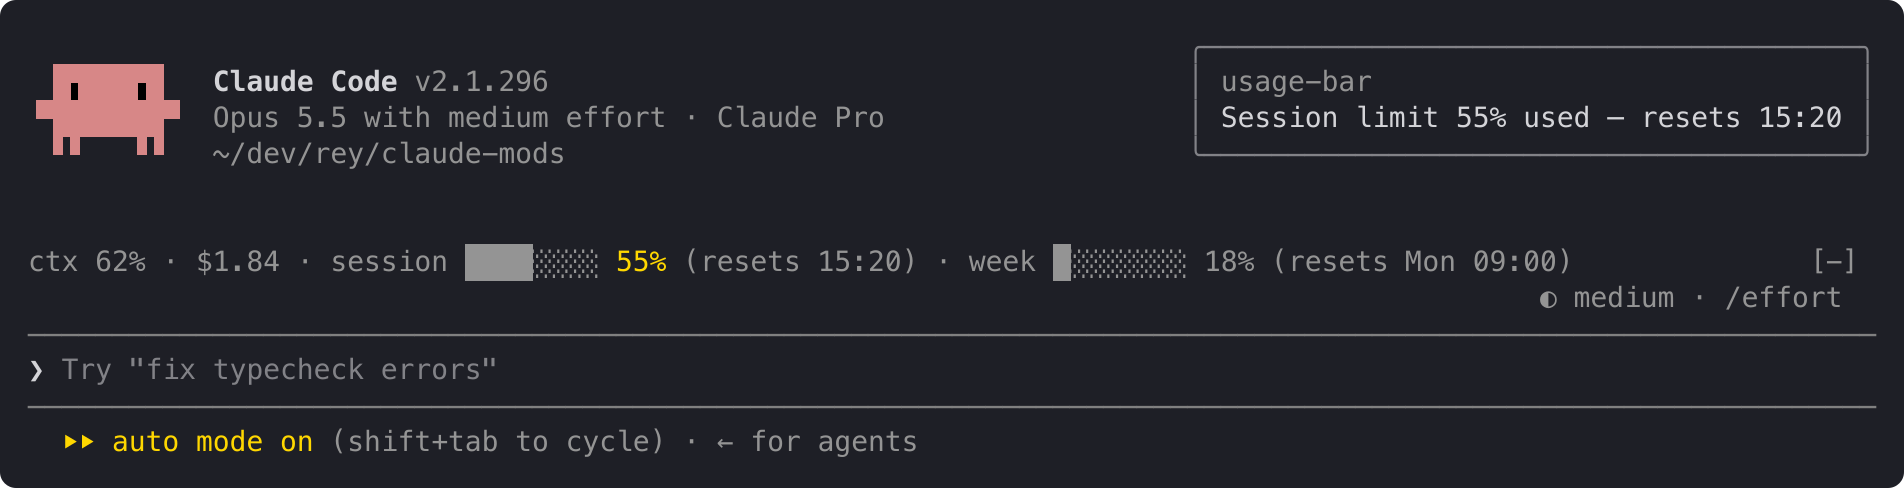
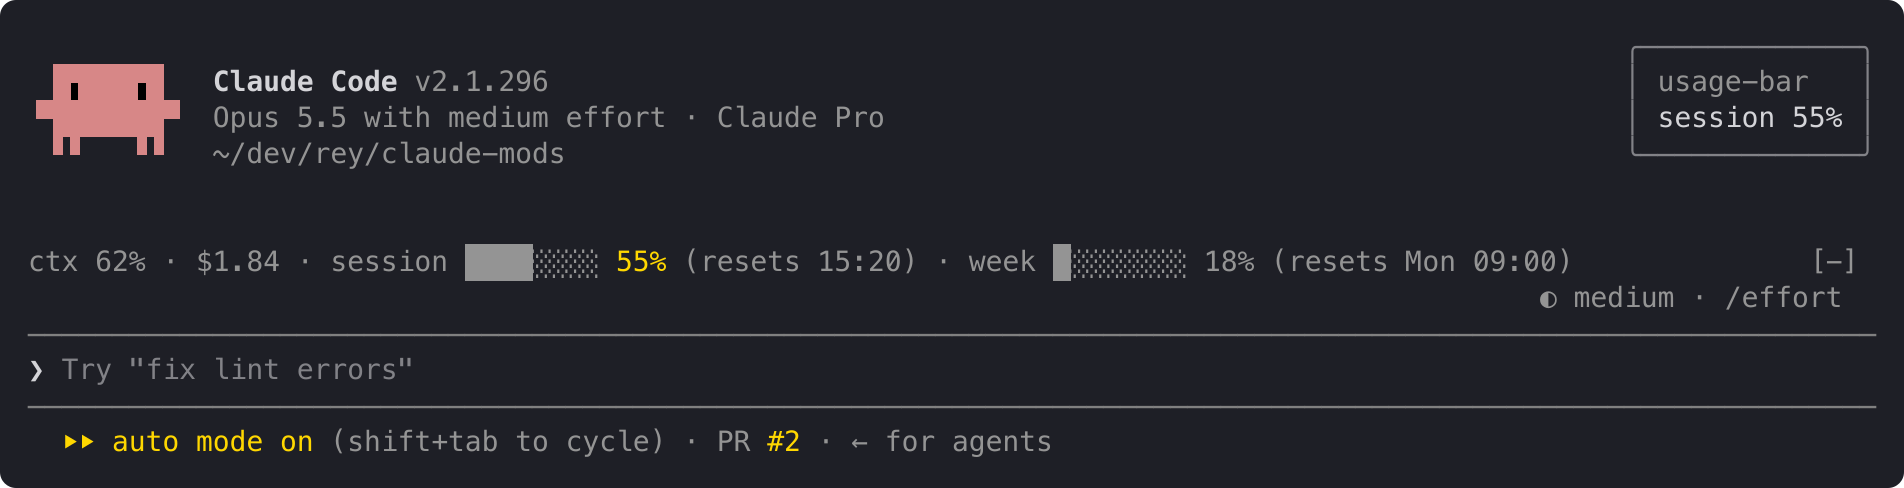
feat(usage-bar): one short toast per reading
The desktop app drops a plugin's second toast while one shows, and the
reset time is already on the line. Toast before saving, so a failed
save repeats a toast instead of losing it.

diff --git a/plugins/usage-bar/hooks/register.tsx b/plugins/usage-bar/hooks/register.tsx
@@ -8,10 +8,12 @@ const reading = atom({ plugin: 'usage-bar', key: 'reading' } as const, null)
 const THRESHOLDS = [50, 80, 95]
 const DAYS = ['Sun', 'Mon', 'Tue', 'Wed', 'Thu', 'Fri', 'Sat']
 
+type Window = { label: string; letter: string; showsDay: boolean }
+
 // The two windows the line shows; any other kind (a gateway's spend_limit) is ignored.
-const WINDOWS: Record<string, { label: string; letter: string; name: string; showsDay: boolean }> = {
-  five_hour: { label: 'session', letter: 's', name: 'Session', showsDay: false },
-  seven_day: { label: 'week', letter: 'w', name: 'Weekly', showsDay: true },
+const WINDOWS: Record<string, Window> = {
+  five_hour: { label: 'session', letter: 's', showsDay: false },
+  seven_day: { label: 'week', letter: 'w', showsDay: true },
 }
 
 // The line's layouts, widest first, each used from its minimum bodyColumns (see docs/usage-bar.md).
@@ -78,25 +80,22 @@ function lineSegments(r: Reading, columns: number): Segment[] {
   return segments.filter(segment => segment.text !== '')
 }
 
-async function toastCrossings($: EngineInterface, limit: LimitReading): Promise<void> {
-  const window = WINDOWS[limit.kind]
-  if (!window) return
-
-  const key = `toasted:${limit.kind}`
+// The record to save when the window crossed a threshold not yet toasted this period, else undefined.
+// It marks every crossed threshold, so a lower one never toasts later in this period.
+async function freshRecord($: EngineInterface, limit: LimitReading): Promise<Toasted | undefined> {
   const period = limit.resetsAt ?? ''
-  const stored = (await $.store.get(key)) as Toasted | undefined
+  const stored = (await $.store.get(`toasted:${limit.kind}`)) as Toasted | undefined
   const shown = stored?.resetsAt === period ? stored.thresholds : []
 
   const crossed = THRESHOLDS.filter(t => limit.percentUsed >= t)
-  const fresh = crossed.filter(t => !shown.includes(t))
-  if (fresh.length === 0) return
+  if (crossed.every(t => shown.includes(t))) return undefined
 
-  // Mark every crossed threshold before toasting, so a lower one never toasts later in this period.
-  await $.store.set(key, { resetsAt: period, thresholds: crossed } satisfies Toasted)
-
-  const resets = limit.resetsAt ? ` — resets ${resetTime(limit.resetsAt, window.showsDay)}` : ''
-  $.ui.toast(`${window.name} limit ${Math.floor(limit.percentUsed)}% used${resets}`)
+  return { resetsAt: period, thresholds: crossed }
 }
+
+// Just the windows and numbers, named as in the line's full layout: `week 97%`, or `session 62% · week 97%`.
+const toastText = (limits: { limit: LimitReading; window: Window }[]): string =>
+  limits.map(({ limit, window }) => `${window.label} ${Math.floor(limit.percentUsed)}%`).join(' · ')
 
 export const register: Register = on => {
   on('session.measure', async ($, e, next) => {
@@ -107,8 +106,17 @@ export const register: Register = on => {
     }
     await update($, reading, () => r)
 
+    // One toast per reading: the desktop app shows one toast per plugin at a time and drops the next.
+    // Toast before saving the records: a failed save repeats a toast later rather than losing it.
+    const crossed: { limit: LimitReading; window: Window; record: Toasted }[] = []
     for (const limit of r.rateLimits) {
-      await toastCrossings($, limit)
+      const window = WINDOWS[limit.kind]
+      const record = window && (await freshRecord($, limit))
+      if (window && record) crossed.push({ limit, window, record })
+    }
+    if (crossed.length > 0) $.ui.toast(toastText(crossed))
+    for (const { limit, record } of crossed) {
+      await $.store.set(`toasted:${limit.kind}`, record)
     }
 
     return next(e)

diff --git a/plugins/usage-bar/tests/usage-bar.test.ts b/plugins/usage-bar/tests/usage-bar.test.ts
@@ -204,8 +204,8 @@ describe('toasts', () => {
       await measure($, [week(percent)])
     }
 
-    expect(toasts.map(t => t.match(/limit (\d+)%/)?.[1])).toEqual(['50', '80', '95'])
-    expect(toasts[0]).toMatch(/^Weekly limit 50% used — resets [A-Z][a-z]{2} \d\d:\d\d$/)
+    expect(toasts.map(t => t.match(/(\d+)%/)?.[1])).toEqual(['50', '80', '95'])
+    expect(toasts[0]).toBe('week 50%')
   })
 
   test('toastsOnlyTheHighest_whenOneReadingCrossesSeveral', async ($, on) => {
@@ -217,7 +217,7 @@ describe('toasts', () => {
     await measure($, [week(97)])
 
     expect(toasts).toHaveLength(1)
-    expect(toasts[0]).toMatch(/^Weekly limit 96% used/)
+    expect(toasts[0]).toBe('week 96%')
   })
 
   // An API-key user, off a subscription, gets readings with no rate limits.
@@ -260,7 +260,36 @@ describe('toasts', () => {
     await measure($, [week(50, NEXT_PERIOD)])
     await measure($, [week(80, NEXT_PERIOD)])
 
-    expect(toasts.map(t => t.match(/limit (\d+)%/)?.[1])).toEqual(['96', '50', '80'])
+    expect(toasts.map(t => t.match(/(\d+)%/)?.[1])).toEqual(['96', '50', '80'])
+  })
+
+  // The desktop app shows one toast per plugin at a time and drops the next, so a second toast from one reading would be lost.
+  test('showsOneToastNamingBoth_whenOneReadingCrossesBothWindows', async ($, on) => {
+    mock.store(on)
+    const toasts = recordToasts(on)
+
+    await measure($, [session(62), week(97)])
+
+    expect(toasts).toHaveLength(1)
+    expect(toasts[0]).toBe('session 62% · week 97%')
+  })
+
+  // A failed save may repeat a toast on the next reading, but never loses one.
+  test('stillToasts_whenSavingAWindowRecordFails', async ($, on) => {
+    // A store in memory whose weekly write fails; mock.store has no way to fail a write.
+    const store = new Map<string, unknown>()
+    on('store.get', ($, e) => ({ value: store.get(e.key) }))
+    on('store.set', ($, e) => {
+      if (e.key === 'toasted:seven_day') throw new Error('disk full')
+      store.set(e.key, e.value)
+
+      return { value: undefined }
+    })
+    const toasts = recordToasts(on)
+
+    await measure($, [session(62), week(97)]).catch(() => undefined)
+
+    expect(toasts).toEqual(['session 62% · week 97%'])
   })
 
   test('tracksSessionAndWeeklyWindowsSeparately', async ($, on) => {
@@ -268,7 +297,9 @@ describe('toasts', () => {
     const toasts = recordToasts(on)
 
     await measure($, [session(50), week(50)])
+    await measure($, [session(80), week(55)])
 
-    expect(toasts.map(t => t.split(' ')[0])).toEqual(['Session', 'Weekly'])
+    expect(toasts).toHaveLength(2)
+    expect(toasts[1]).toBe('session 80%')
   })
 })

diff --git a/docs/usage-bar.md b/docs/usage-bar.md
@@ -26,10 +26,11 @@ One line above the prompt with the session's context fill and cost, plus the pla
      | 56–75 | `ctx 62% · $1.84 · s 41% ↻ 15:20 · w 18% ↻ Mon 09:00` | 56 |
      | < 56 | `ctx 62% · $1.84 · s 41% · w 18%` | 36 |
 
-2. **Toasts.** When the session or weekly window first crosses 50%, 80% or 95%, show one toast, for example `Weekly limit 80% used — resets Mon 09:00`.
+2. **Toasts.** When the session or weekly window first crosses 50%, 80% or 95%, show one toast with just the window and number, named as in the line's full layout: `week 80%`. The reset time is on the line, except under 56 columns, where nothing shows it.
    - A window has crossed a threshold when `percentUsed` is greater than or equal to it, so exactly 50 counts.
    - If one reading crosses several thresholds (40% → 96%), show one toast and mark them all as shown.
-   - The toast names the current percent, rounded down like the line: `Weekly limit 96% used`, not `95%`.
+   - If one reading crosses thresholds in both windows, show one toast naming both: `session 62% · week 97%`. It fits one line of the desktop app's toast. The desktop app shows one toast per plugin at a time and drops the next.
+   - The toast names the current percent, rounded down like the line: `week 96%`, not `week 95%`.
    - Each threshold toasts once per window period. After a reset, the window's new `resetsAt` starts a new period.
    - A reload or a new session must not repeat a toast already shown for the same period.
 
@@ -72,7 +73,7 @@ Use `claude plugin test`. Cover at least:
 
 1. Before the first reading, the line shows `usage: no data yet`; after one with empty `rateLimits`, only `ctx` and `$`.
 2. Crossing 50%, 80% and 95% each toasts once, and exactly 50% counts as crossed.
-3. A jump from 40% to 96% shows one toast, `Weekly limit 96% used`, and no later toast for 50% or 80%.
+3. A jump from 40% to 96% shows one toast, `week 96%`, and no later toast for 50% or 80%.
 4. Staying above a threshold, reloading, or starting a session in another project does not repeat the toast.
 5. A new `resetsAt` re-arms all thresholds.
 6. The line rounds `ctx` and window percents down, and shows `$` with two decimals, or `$–` for a reading with no cost.
@@ -80,3 +81,4 @@ Use `claude plugin test`. Cover at least:
 8. Empty `rateLimits` never toast.
 9. Each width picks its layout at the 100, 76 and 56 column breakpoints, and the widest line fits its width.
 10. Bars fill rounded down and stay dimmed; the percent turns `warning` at 50% and `error` at 95%.
+11. A reading that crosses thresholds in both windows shows one toast naming both; each window's thresholds are still tracked on their own.

diff --git a/plugins/usage-bar/README.md b/plugins/usage-bar/README.md
@@ -10,13 +10,13 @@ Your plan's usage limits, context and cost on one dimmed line above the prompt, 
 
 ## Alerts
 
-A limit's percent turns yellow at 50% and red at 95%; the bars stay grey. An alert appears at the top right at 50%, 80% and 95%:
+A limit's percent turns yellow at 50% and red at 95%; the bars stay grey. An alert with the limit and its percent appears at the top right at 50%, 80% and 95%:
 
-![The session limit at 55% in yellow, with the alert "Session limit 55% used — resets 15:20"](images/yellow.png)
+![The session limit at 55% in yellow, with the alert "session 55%"](images/yellow.png)
 
-![The weekly limit at 96% in red, with the alert "Weekly limit 96% used — resets Mon 09:00"](images/red.png)
+![The weekly limit at 96% in red, with the alert "week 96%"](images/red.png)
 
-Each alert shows once per limit period, even across restarts and projects. When a limit resets, its alerts start over.
+When both limits cross at once, one alert names both: `session 62% · week 97%`. Each alert shows once per limit period, even across restarts and projects. When a limit resets, its alerts start over.
 
 ## On narrow terminals
 
